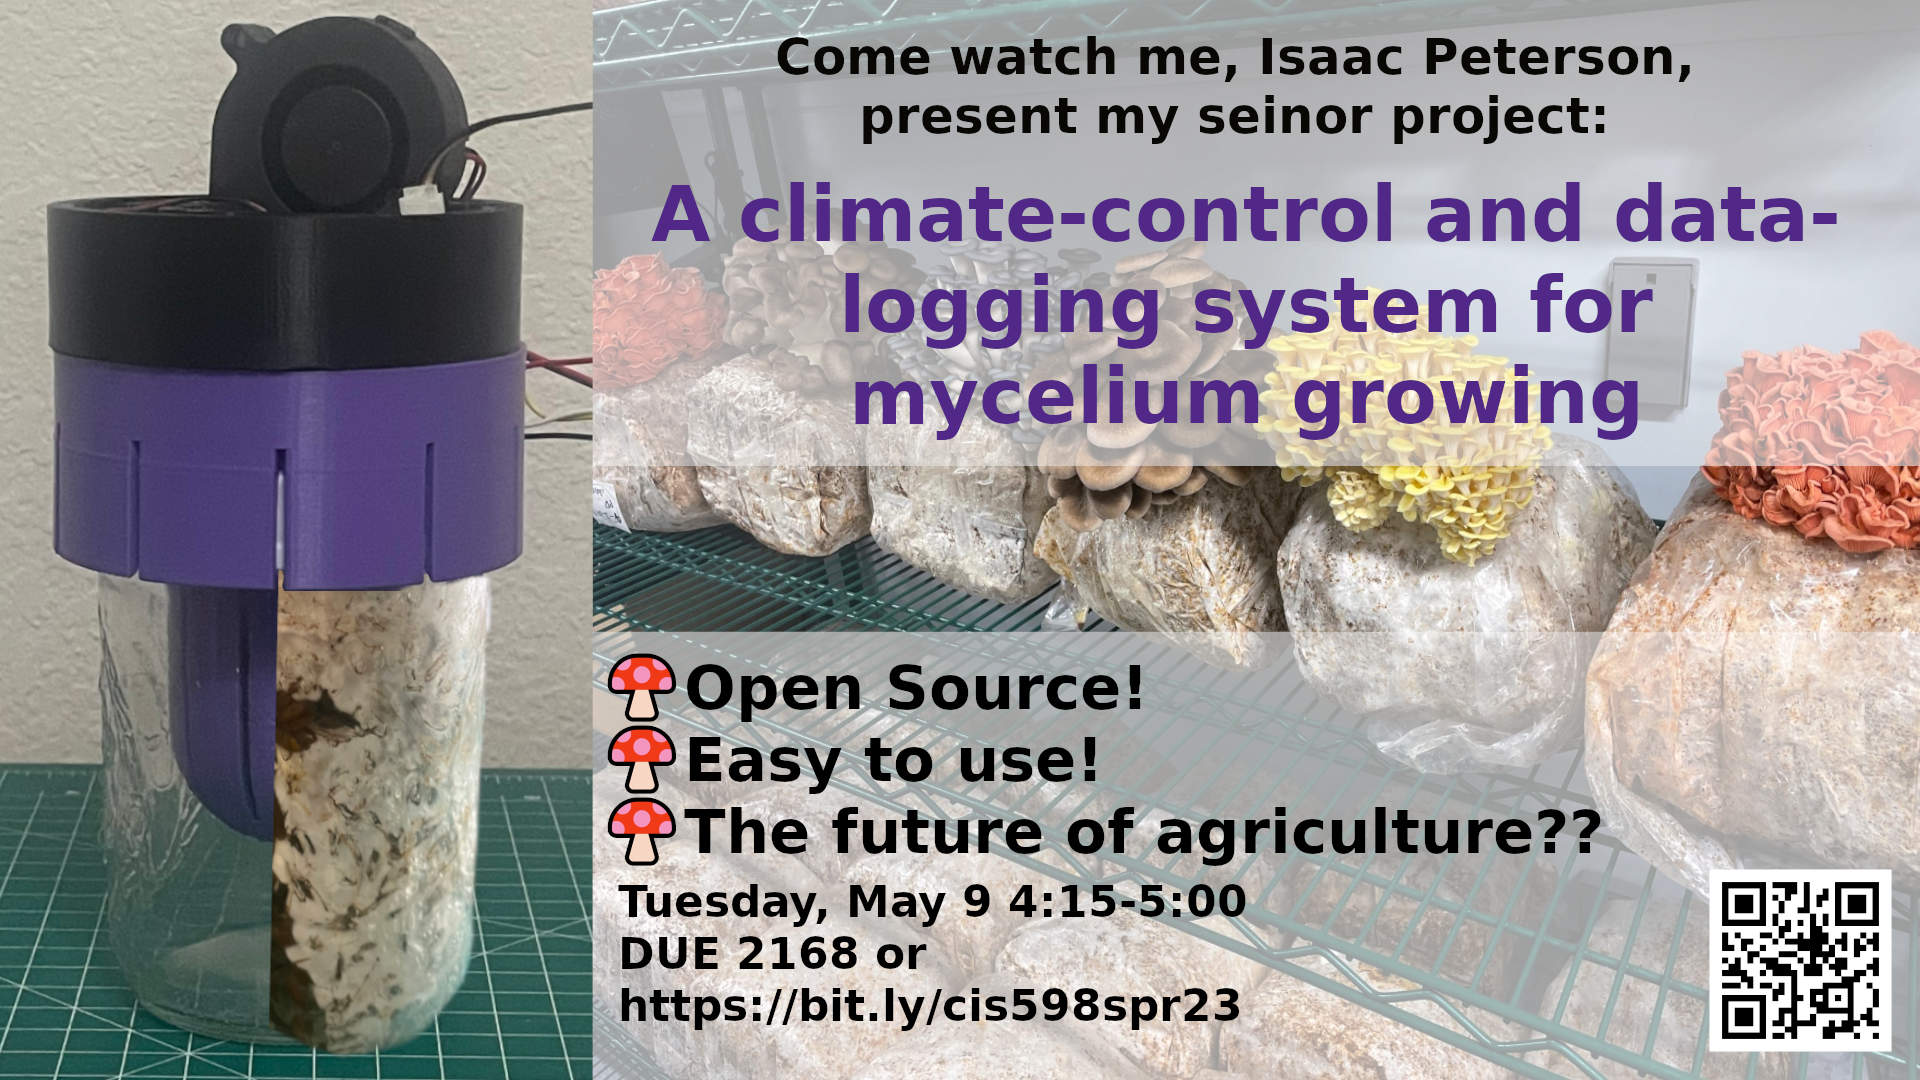
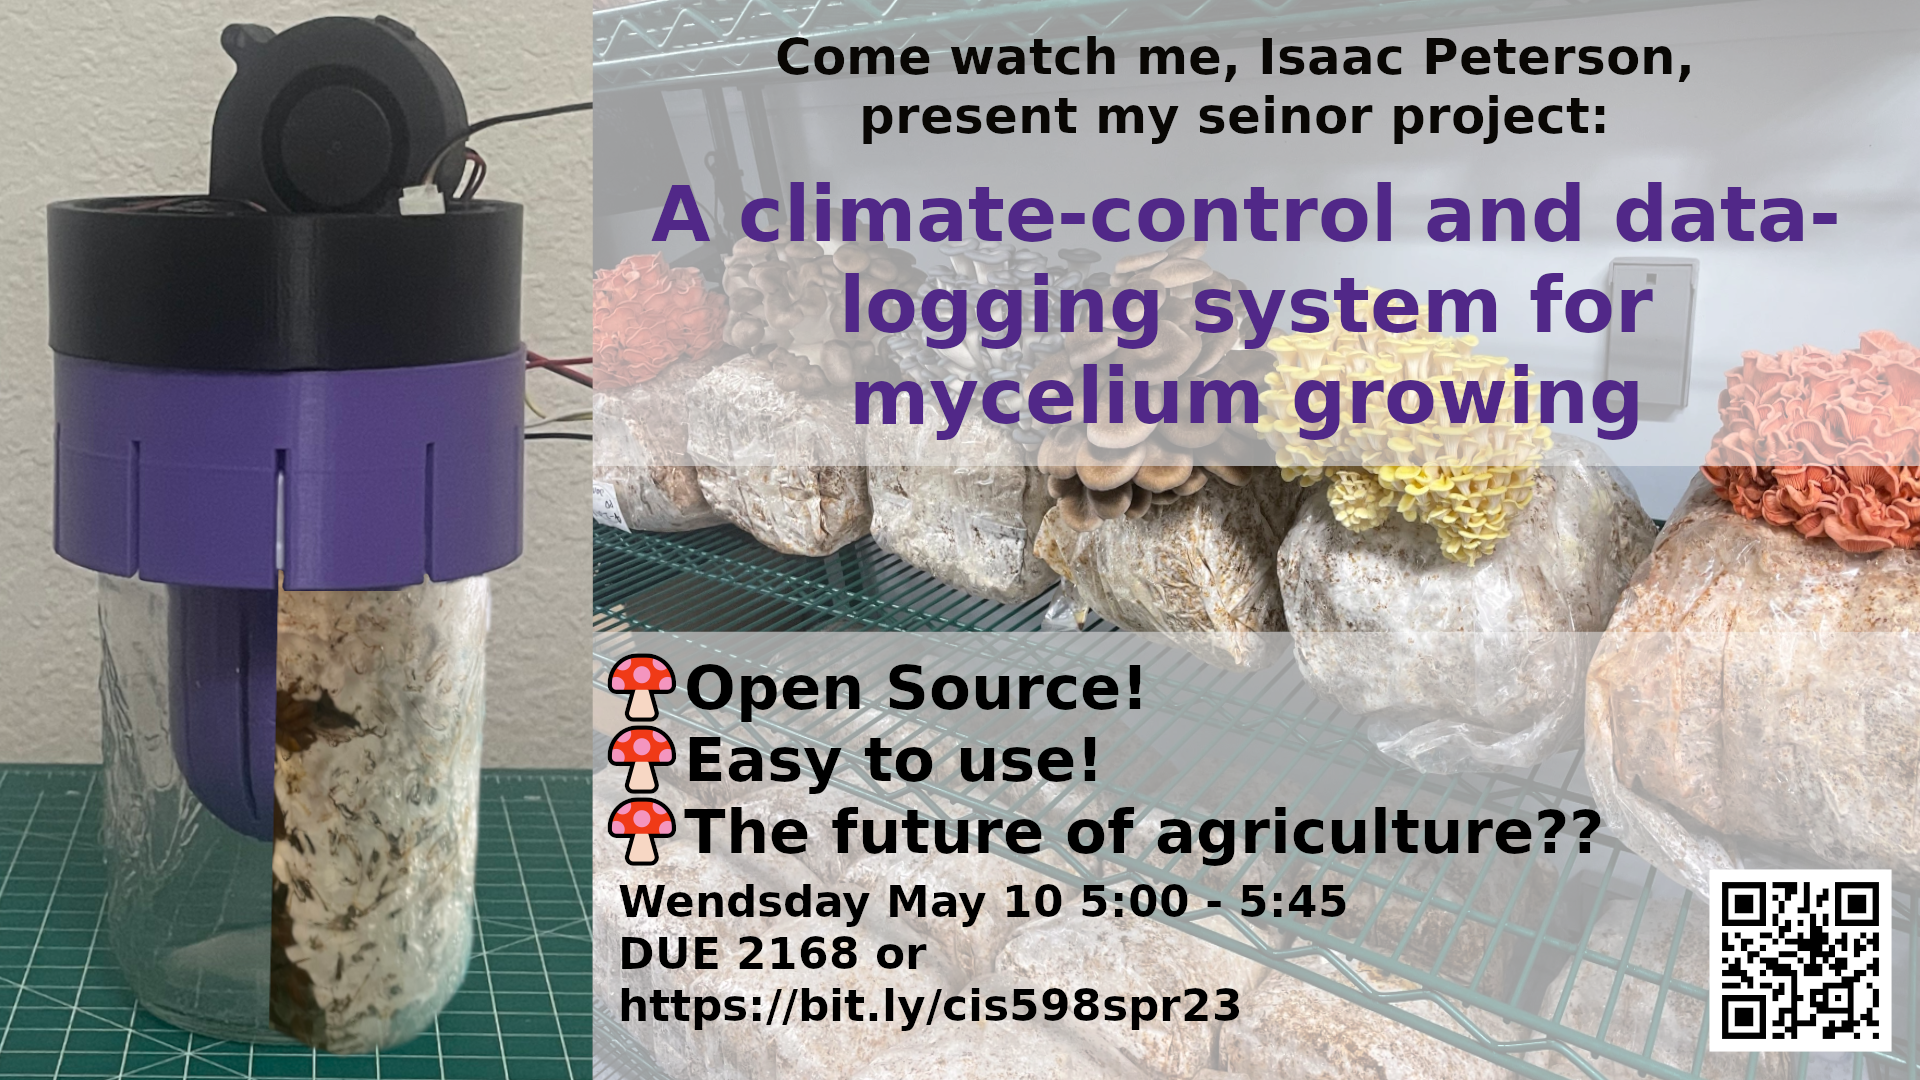
Update Schedule

Changed region(s): [[0.3125, 0.7944, 0.7188, 0.8556]]

diff --git a/content/b-schedule/02-spring2023.md b/content/b-schedule/02-spring2023.md
@@ -18,7 +18,6 @@ All presentations will be streamed on Zoom at [https://bit.ly/cis598s23](https:/
 | [3D Printing Monitor Framework]({{< ref "02-spring2023#8" >}}) | Quentin Ricketts | Neilsen | Tues., May 9, 2023 | 2:00 - 2:45 | DUE 2168 |
 | [Team Based Pixel Game]({{< ref "02-spring2023#9" >}}) | Sean Hurt | Feldhausen | Tues., May 9, 2023 | 2:45 - 3:30 | DUE 2168 |
 | [Pass Keeper]({{< ref "02-spring2023#10" >}}) | Tucker Deaton | Feldhausen | Tues., May 9, 2023 | 3:30 - 4:15 | DUE 2168 |
-| [Climate-Control and Data Logging System for Mycelium Growing]({{< ref "02-spring2023#11" >}}) | Isaac Peterson | Neilsen | Tues., May 9, 2023 | 4:15 - 5:00 | DUE 2168 |
 | [Magical Casters]({{< ref "02-spring2023#12" >}}) | Jordan Miller | Hsu | Tues., May 9, 2023 | 5:00 - 5:45 | DUE 2168 |
 | [Web of Smithies]({{< ref "02-spring2023#13" >}}) | Eric Yu | Shamir | Wed., May 10, 2023 | 8:00 - 8:45 | DUE 2168 |
 | [Predictive Golf Tournament Model]({{< ref "02-spring2023#14" >}}) | Mason Wittman | Shamir | Wed., May 10, 2023 | 8:45 - 9:30 | DUE 2168 |
@@ -31,6 +30,7 @@ All presentations will be streamed on Zoom at [https://bit.ly/cis598s23](https:/
 | [Dou Dizhu]({{< ref "02-spring2023#21" >}}) | Ziyu Zhao | Bean | Wed., May 10, 2023 | 2:45 - 3:30 | DUE 2168 |
 | [FrontPage]({{< ref "02-spring2023#22" >}}) | Ethan Hulen | Bean | Wed., May 10, 2023 | 3:30 - 4:15 | DUE 2168 |
 | [Geoplay]({{< ref "02-spring2023#23" >}}) | Kaden O'Hare | Weese | Wed., May 10, 2023 | 4:15 - 5:00 | DUE 2168 |
+| [Climate-Control and Data Logging System for Mycelium Growing]({{< ref "02-spring2023#11" >}}) | Isaac Peterson | Neilsen | Wed., May 10, 2023 | 4:15 - 5:00 | DUE 2168 |
 | [Dungeon Swing]({{< ref "02-spring2023#24" >}}) | Micah Roening | Weese | Thur., May 11, 2023 | 8:00 - 8:45 | DUE 2168 |
 | [What's Next]({{< ref "02-spring2023#25" >}}) | Connor Gabrielson | McGinty | Thur., May 11, 2023 | 8:45 - 9:30 | DUE 2168 |
 | [Legion DB]({{< ref "02-spring2023#26" >}}) | Nicholas Friesen | Caragea | Thur., May 11, 2023 | 9:30 - 10:15 | DUE 2168 |
@@ -73,16 +73,13 @@ Eve Steinle
 Day to Remember is a React application that allows couples to plan their wedding day. Inspired by The Knot and Zola, Day to Remember allows couples to keep all their wedding information in one central location. Features include picking a venue, tracking wedding expenses and to dos, coming up with a color palette and generating seating charts for guests. All data is stored in Firebase for quick and easy retrieval and insertion. Presented by Eve Steinle on May 9th at 8:45 am in
 DUE 2168. Zoom link: https://bit.ly/cis598s23.
 
-
 ## SharePoint Resource Management Tool {#3}
 
 John Velasco
 
 ![SharePoint Resource Management Tool](/images/spring2023/velasco.jpg)
 
-
 Improving an employee’s accessibility to resources is vital to improving their productivity. This SharePoint tool allows organizations to provision pages to easily access resources specific to a certain position. Employees can utilize simple customization features improved from the standard SharePoint experience, reinforcing the ease-of-use experience. Software architecture is maintained by the .NET Framework and open source libraries that allow interaction with Microsoft 365 products.
-
 
 ## ClarifAI {#4}
 
@@ -139,14 +136,6 @@ Tucker Deaton
 ![Pass Keeper](/images/spring2023/deaton.png)
 
 Nowadays most social media platforms, businesses and apps require users to create accounts with usernames and passwords. I have found that keeping track of the various passwords results in confusion, annoyance, and time devoted to creating new passwords each time the user forgets theirs. These challenges are why I have created the Pass Keeper website to keep track of the many passwords each of us utilize on a daily basis. Please join me; Tucker Deaton, on Tuesday, May 9th, from 3:30-4:15 PM in DUE 2168 or by zoom at https://bit.ly/cis598s23 to hear more about my website Pass Keeper! 
-
-## Climate-Control and Data Logging System for Mycelium Growing {#11}
-
-Isaac Peterson
-
-![Climate-Control and Data Logging System for Mycelium Growing](/images/spring2023/peterson.png)
-
-Mushroom cultivation is growing, both as a hobby and a small business opportunity. Grain spawn is a nutrient-dense food source fully colonized and free from contamination. It is used to inoculate a larger substrate, like straw or sawdust, giving the desired fungus a head start against any competing decomposers. Because producing it can be slow and tedious, it is often expensive. I designed a device that makes grain spawn production easier and quicker. The project runs on a raspberry pi zero SBC. The sensor and control code is written in rust. Data is logged in a SQLite database. Freecad was used to model all mechanical parts, and python was used to automate part of that process. Data will accessable by exporting a csv of log files. 
 
 ## Magical Casters {#12}
 
@@ -244,13 +233,21 @@ Kaden O'Hare
 
 Hello, my name is Kaden O’Hare and my senior project is called GeoPlay. GeoPlay is a website designed to help you create playlists for Spotify based on what you listen to where by logging the music you’ve listened to recently and getting your location. It uses C#, HTML, and SQL mainly, as well as various APIs such as Spotify Web and HTML Geolocation. I present on Wednesday, May 10th in DUE 2168 as well as on Zoom at https://bit.ly/cis598s23. 
 
+## Climate-Control and Data Logging System for Mycelium Growing {#11}
+
+Isaac Peterson
+
+![Climate-Control and Data Logging System for Mycelium Growing](/images/spring2023/peterson.png)
+
+Mushroom cultivation is growing, both as a hobby and a small business opportunity. Grain spawn is a nutrient-dense food source fully colonized and free from contamination. It is used to inoculate a larger substrate, like straw or sawdust, giving the desired fungus a head start against any competing decomposers. Because producing it can be slow and tedious, it is often expensive. I designed a device that makes grain spawn production easier and quicker. The project runs on a raspberry pi zero SBC. The sensor and control code is written in rust. Data is logged in a SQLite database. Freecad was used to model all mechanical parts, and python was used to automate part of that process. Data will accessable by exporting a csv of log files. 
+
 ## Dungeon Swing {#24}
 
 Micah Roening
 
 ![Dungeon Swing](/images/spring2023/roening.png)
 
-Hello, my name is Kaden O’Hare and my senior project is called GeoPlay. GeoPlay is a website designed to help you create playlists for Spotify based on what you listen to where by logging the music you’ve listened to recently and getting your location. It uses C#, HTML, and SQL mainly, as well as various APIs such as Spotify Web and HTML Geolocation. I present on Wednesday, May 10th in DUE 2168 as well as on Zoom at https://bit.ly/cis598s23. 
+Dungeon Swing is the proof of concept for a top-down 2D hack & slash with a focus on complex player enemy interactions. The final product for this semester focuses on a short fight between the player character and a single enemy. The enemy AI is able to parse player intent and respond appropriately, making for a complex fight against an intelligent (but fair) opponent. Created by Micah Roening, the project will be presented on Thursday May 11th from 8:00 a.m. to 8:45 a.m. in DUE 2168. Additionally, the presentation will be streamed at the following Zoom link: https://bit.ly/cis598spr23
 
 ## What's Next {#25}
 
